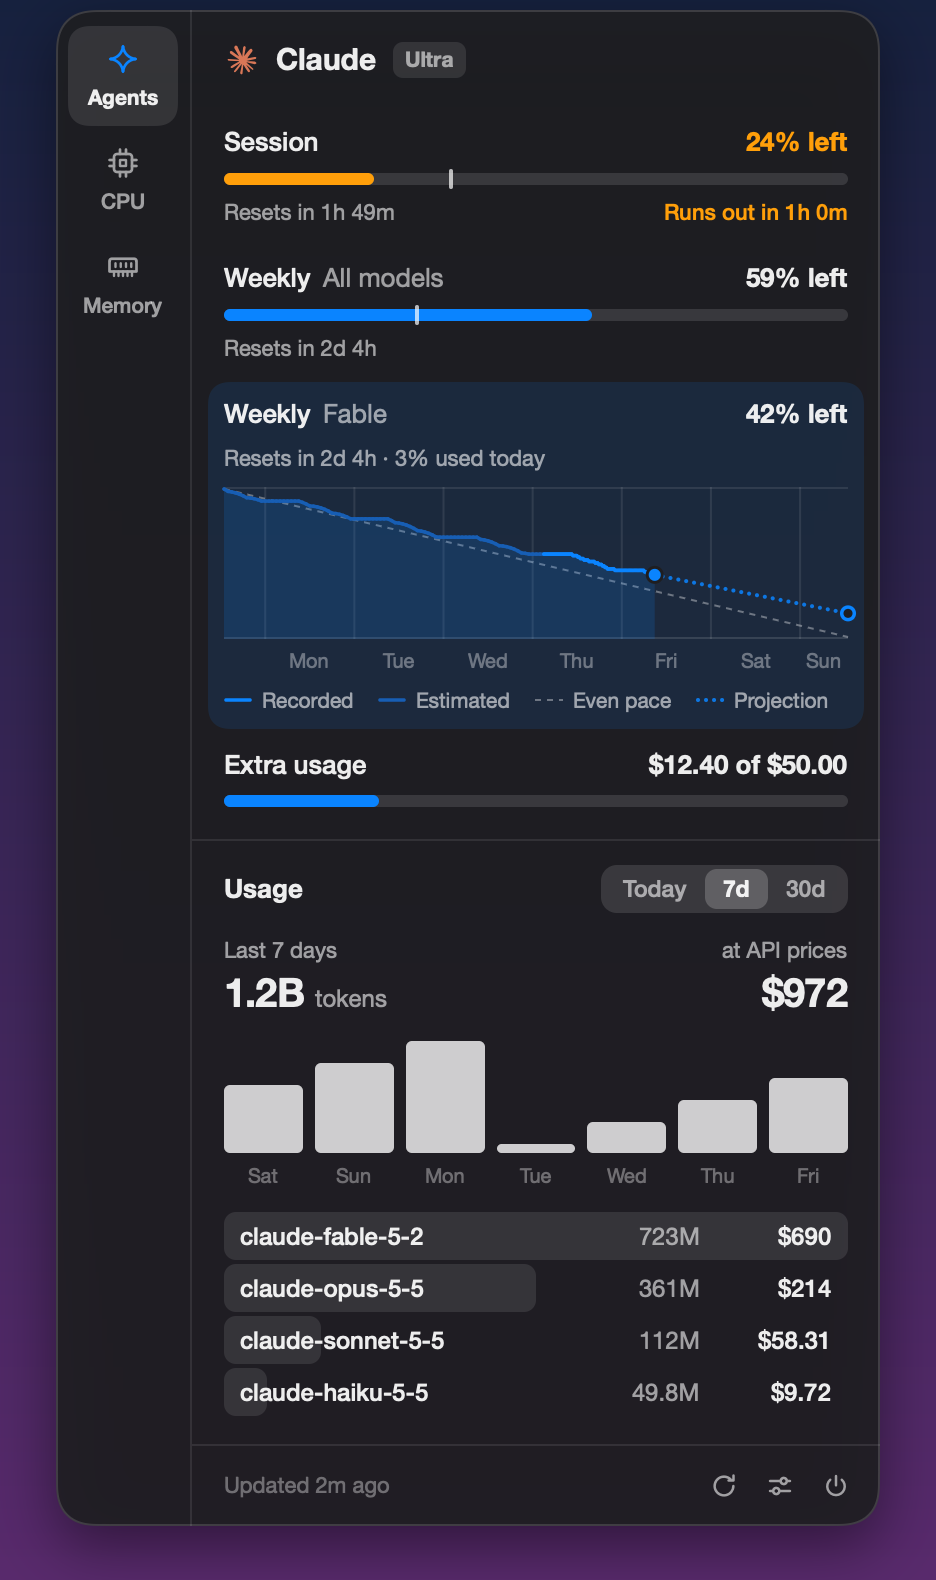
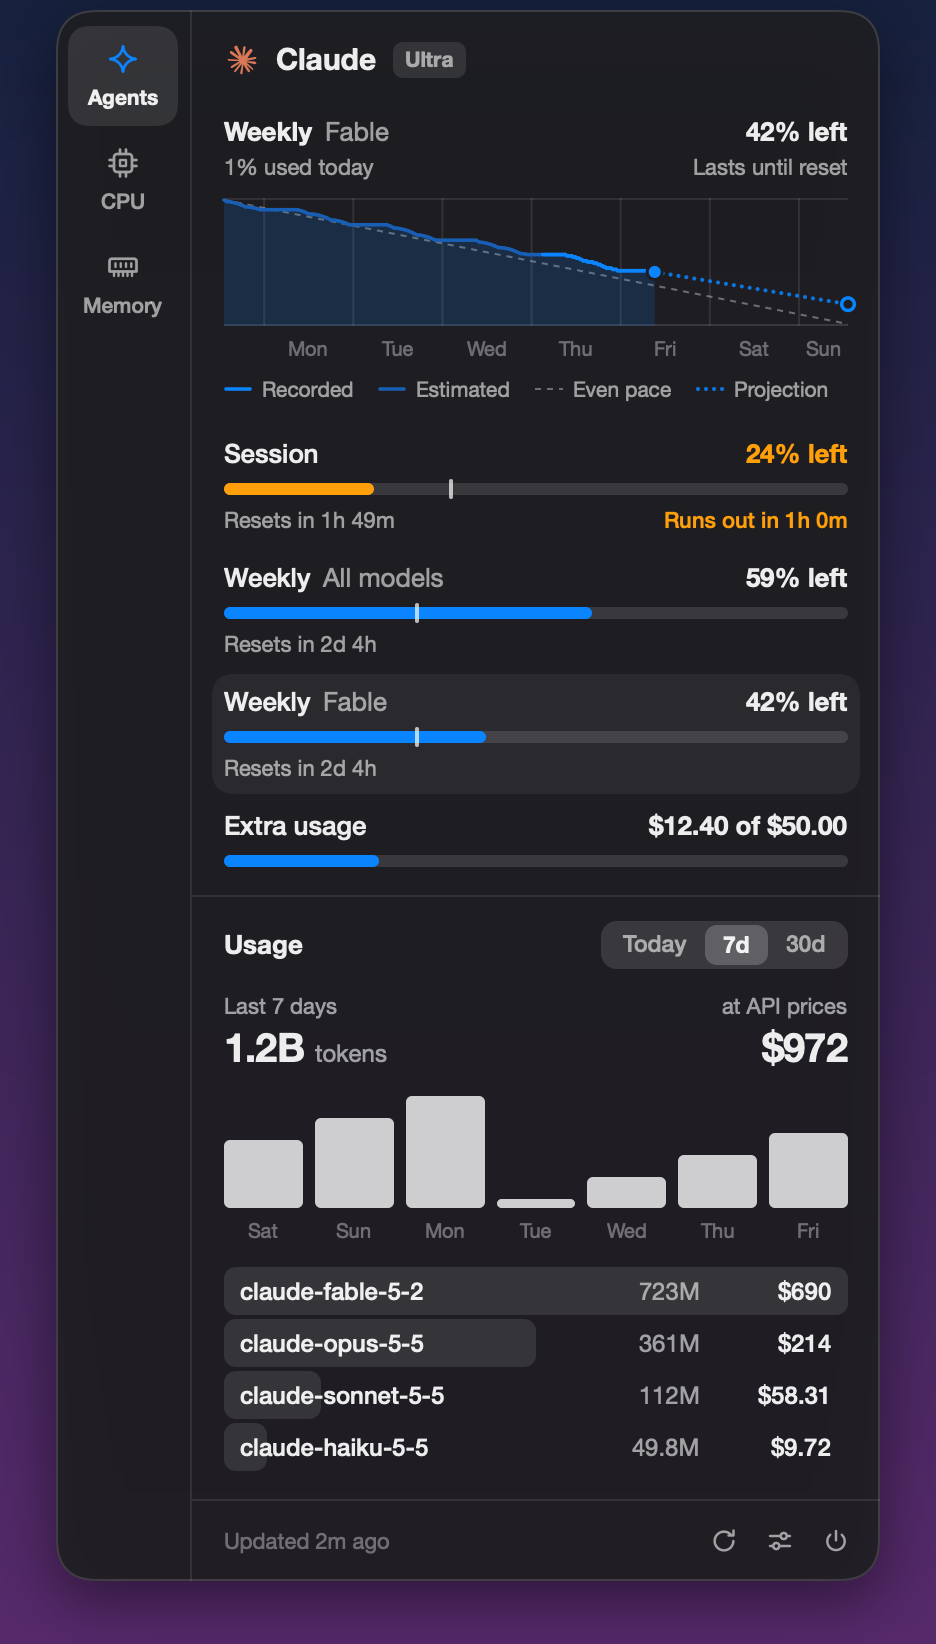
feat(agents): put the limit chart above the limits that pick it
The chart of the picked limit's window now sits at the top of the
Agents tab instead of inside that limit's row. Over it, the limit's
name and what is left, what was used today and whether the pace lasts
until the reset; under the pointer, what was left then and what was
used that day.

Every limit keeps its row and meter under the chart, and a click on
one shows it in the chart. The picked row sits on a quiet neutral card
in place of the tinted wash around the chart: the only fill in the
chart is the area under its line.

The rows are a little tighter and the chart a little shorter so the
panel stays on screen with a problem showing; the window is 880pt tall
to hold it.

diff --git a/src/burn_view.rs b/src/burn_view.rs
@@ -1,11 +1,12 @@
-//! The open limit's chart on the Agents tab: how it went from nothing used to now across its
-//! window, beside an even pace, and where the pace so far leads. It takes the place of the
-//! row's meter, and the line over it reads now (when the limit resets, what was used today) or
-//! the moment under the pointer (what was left then, what was used that day).
+//! The picked limit's chart at the top of the Agents tab: how it went from nothing used to now
+//! across its window, beside an even pace, and where the pace so far leads. The rows under it
+//! pick which limit it shows. Over the chart, the limit's name and what is left, then what was
+//! used today; under the pointer, what was left at that moment and what was used that day.
 //!
 //! The chart follows the panel's percentages: what is left falls from 100%, or what is used
 //! climbs to it. Recorded stretches are a solid line, estimated ones a fainter line, the even
-//! pace dashed and the projection dotted, each named in the legend under the chart.
+//! pace dashed and the projection dotted, each named in the legend under the chart. Only the
+//! area under the line is filled: the chart sits on the panel itself.
 
 use rune::{Color, El, LineCap, Shape, canvas, col, row, spacer, text};
 
@@ -13,9 +14,10 @@ use crate::burn::{self, Curve, Source};
 use crate::model::{self, Limit, Severity, Snapshot};
 use crate::time::{self, WEEKDAYS};
 use crate::ui::{self, Ui};
-use crate::view::{INNER_W, Look, digits, font, reset_note, runway_note};
+use crate::view::{INNER_W, Look, PAD_X, digits, font, reset_note, runway_note};
 
-const CHART_H: f32 = 76.0;
+const CHART_H: f32 = 64.0;
+const AXIS_H: f32 = 12.0;
 const LINE: f32 = 1.75;
 /// The narrowest column that still gets its name under the chart.
 const LABEL_MIN_W: f32 = 22.0;
@@ -23,45 +25,61 @@ const HOUR_LABEL_MIN_W: f32 = 32.0;
 /// Points closer together than this along the chart are drawn as one.
 const THIN: f32 = 0.6;
 
-/// What the open limit's row shows in place of its meter, or `None` while it has no window
-/// under way to chart.
-pub fn expanded(s: &Ui, l: &Look, snapshot: &Snapshot, limit: &Limit) -> Option<El> {
+/// The chart of `limit`, the one picked, with its name and reading over it. A limit with no
+/// window under way says when one starts in the chart's place, so the panel keeps its height.
+pub fn section(s: &Ui, l: &Look, snapshot: &Snapshot, limit: &Limit) -> El {
     let show_used = s.config.show_used;
     let activity = s.stats.as_ref().map_or(&[][..], |stats| stats.activity.as_slice());
-    let curve = burn::curve(limit, snapshot.fetched_at, s.history.readings(&limit.id), activity)?;
-    let moment = s.trace.map(|at| curve.start + ((curve.end - curve.start) as f64 * at as f64) as i64);
+    let curve = burn::curve(limit, snapshot.fetched_at, s.history.readings(&limit.id), activity);
+    let moment = curve.as_ref().and_then(|curve| s.trace.map(|at| curve.start + ((curve.end - curve.start) as f64 * at as f64) as i64));
+    let any_scoped = snapshot.limits.iter().any(|l| l.scoped);
+    let body = col().key("limit-history").w_full().px(PAD_X).pt(2.0).pb(12.0).gap(8.0);
+    let Some(curve) = curve else {
+        let empty = row().key("limit-chart-empty").w_full().h(CHART_H + 5.0 + AXIS_H).center().child(text(reset_note(limit, s.now)).font(font(11.5, 400.0)).color(l.faint));
+        return body.child(title(l, limit, any_scoped, None, None, show_used)).child(empty);
+    };
     let color = l.fill(limit.severity());
-    Some(
-        col()
-            .w_full()
-            .gap(7.0)
-            .child(reading(l, limit, &curve, moment, show_used, s.now))
-            .child(col().w_full().gap(5.0).child(chart(l, &curve, color, moment, show_used)).child(axis(l, &curve, moment)))
-            .child(legend(l, &curve, color)),
-    )
+    let head = col().w_full().gap(2.0).child(title(l, limit, any_scoped, Some(&curve), moment, show_used)).child(reading(l, limit, &curve, moment, s.now));
+    body.child(head)
+        .child(col().w_full().gap(5.0).child(chart(l, &curve, color, moment, show_used)).child(axis(l, &curve, moment)))
+        .child(legend(l, &curve, color))
 }
 
-/// The line over the chart. Now: when the limit resets and what was used today, and a warning
-/// when it runs out first. Under the pointer: when that is and what was used that day, and
-/// what was left then.
-fn reading(l: &Look, limit: &Limit, curve: &Curve, moment: Option<i64>, show_used: bool, now: i64) -> El {
-    let line = row().key("limit-readout").w_full().h(14.0).gap(8.0).center_y();
+/// The limit's name, and what is left of it now or at the moment under the pointer.
+fn title(l: &Look, limit: &Limit, any_scoped: bool, curve: Option<&Curve>, moment: Option<i64>, show_used: bool) -> El {
+    let (name, scope) = model::names(limit, any_scoped);
+    let mut names = row().gap(6.0).center_y().child(text(name).font(font(13.0, 600.0)).color(l.text));
+    if let Some(scope) = scope {
+        names = names.child(text(scope).font(font(13.0, 400.0)).color(l.dim));
+    }
+    let word = if show_used { "used" } else { "left" };
+    let read = curve.zip(moment).and_then(|(curve, t)| curve.at(t));
+    let (value, severity) = match read {
+        Some((used, source)) => {
+            let shown = if show_used { used } else { 100.0 - used }.clamp(0.0, 100.0);
+            (format!("{}{}% {word}", approx(source != Source::Recorded), shown.round() as i64), model::severity(100.0 - used))
+        }
+        None if moment.is_some() => (String::new(), Severity::Normal),
+        None => (format!("{} {word}", model::percent(limit, show_used)), limit.severity()),
+    };
+    row().key("limit-title").w_full().h(18.0).center_y().child(names).child(spacer()).child(text(value).font(digits(13.0, 600.0)).color(l.ink(severity)))
+}
+
+/// The line under the title. Now: what was used today, and whether the pace so far lasts
+/// until the reset. Under the pointer: when that is and what was used that day.
+fn reading(l: &Look, limit: &Limit, curve: &Curve, moment: Option<i64>, now: i64) -> El {
+    let line = row().key("limit-readout").w_full().h(14.0).gap(6.0).center_y();
     let Some(t) = moment else {
-        let mut line = line.child(text(format!("{} · {}", reset_note(limit, now), detail(curve, None))).font(digits(11.0, 400.0)).color(l.dim)).child(spacer());
+        let mut line = line.child(text(detail(curve, None)).font(digits(11.0, 400.0)).color(l.dim)).child(spacer());
         if let Some(warning) = runway_note(l, limit, now) {
             line = line.child(warning);
+        } else if curve.projection.is_some_and(|_| !curve.runs_out) {
+            line = line.child(text("Lasts until reset").font(font(11.0, 400.0)).color(l.dim));
         }
         return line;
     };
-    let value = curve.at(t);
     let when = if curve.daily() { time::weekday_clock(t) } else { time::clock(t, false) };
-    let shown = |used: f64| if show_used { used.clamp(0.0, 100.0) } else { (100.0 - used).clamp(0.0, 100.0) };
-    let number = value.map_or_else(String::new, |(used, source)| format!("{}{}% {}", approx(source != Source::Recorded), shown(used).round() as i64, if show_used { "used" } else { "left" }));
-    let severity = value.map_or(Severity::Normal, |(used, _)| model::severity(100.0 - used));
-    line.child(text(when).font(digits(11.0, 600.0)).color(l.text))
-        .child(text(detail(curve, Some(t))).font(digits(11.0, 400.0)).color(l.dim))
-        .child(spacer())
-        .child(text(number).font(digits(11.0, 600.0)).color(l.ink(severity)))
+    line.child(text(when).font(digits(11.0, 600.0)).color(l.text)).child(text(detail(curve, Some(t))).font(digits(11.0, 400.0)).color(l.dim)).child(spacer())
 }
 
 fn approx(on: bool) -> &'static str {
@@ -213,10 +231,10 @@ fn axis(l: &Look, curve: &Curve, moment: Option<i64>) -> El {
     let span = (curve.end - curve.start) as f32;
     let read = moment.and_then(|t| curve.bucket(t));
     let daily = curve.daily();
-    let mut axis = row().key("limit-axis").w_full().h(12.0);
+    let mut axis = row().key("limit-axis").w_full().h(AXIS_H);
     for (from, to) in curve.buckets() {
         let width = (to - from) as f32 / span * INNER_W;
-        let mut cell = row().w(width).min_w(0.0).h(12.0).center();
+        let mut cell = row().w(width).min_w(0.0).h(AXIS_H).center();
         let name = if daily { WEEKDAYS[time::local(from).weekday as usize].to_owned() } else { format!("{:02}:00", time::local(from).hour) };
         if width >= if daily { LABEL_MIN_W } else { HOUR_LABEL_MIN_W } {
             cell = cell.child(text(name).font(digits(10.0, 400.0)).color(if read == Some((from, to)) { l.text } else { l.faint }));

diff --git a/src/view.rs b/src/view.rs
@@ -1,7 +1,7 @@
 //! How the panel looks: a rail of tabs, and the tab beside it. The Agents tab has the provider
-//! and its plan, a row per limit (the picked one opened up to the chart of its window, in
-//! `burn_view`, the others a meter), then usage from the session logs: totals, a chart and a
-//! row per model. This Mac's tabs are in `system_view`.
+//! and its plan, the chart of the picked limit's window (in `burn_view`), a row per limit that
+//! picks it, then usage from the session logs: totals, a chart and a row per model. This Mac's
+//! tabs are in `system_view`.
 
 use rune::{Color, Cx, El, Icon, TextStyle, col, el, icon, row, rule, spacer, text};
 
@@ -18,7 +18,7 @@ pub(crate) const PAD_X: f32 = 16.0;
 pub(crate) const INNER_W: f32 = CONTENT_W - 2.0 * PAD_X;
 const METER_H: f32 = 6.0;
 /// Around a limit row's content, inside the wash that marks the charted limit.
-const ROW_PAD: f32 = 8.0;
+const ROW_PAD: f32 = 6.0;
 const CHART_H: f32 = 56.0;
 const MODEL_ROWS: usize = 5;
 
@@ -212,8 +212,12 @@ pub fn view(s: &Ui, cx: &mut Cx<Ui>) -> El {
         match &limits {
             Some(snapshot) => {
                 let charted = s.chart_limit(snapshot);
-                // Each row is a button with room around its content for the wash that marks
-                // the open one; the meters and the chart keep the full width.
+                if let Some(limit) = charted {
+                    panel = panel.child(burn_view::section(s, &l, snapshot, limit));
+                }
+                // The limits under the chart pick what it shows. Each row is a button with room
+                // around its content for the card that marks the picked one; the meters keep
+                // the full width.
                 let mut rows = col().key("limits").w_full().px(PAD_X - ROW_PAD).pb(8.0).gap(2.0);
                 for limit in &snapshot.limits {
                     let on = charted.is_some_and(|c| c.id == limit.id);
@@ -469,8 +473,8 @@ pub(crate) fn runway_note(l: &Look, limit: &Limit, now: i64) -> Option<El> {
     }
 }
 
-/// A limit: its name and what is left, then a meter and when it resets, or for the open one,
-/// the chart of its window in their place.
+/// A limit: its name and what is left, a meter and when it resets. The one in the chart sits
+/// on a quiet card; a click on another puts it in the chart.
 fn limit_row(s: &Ui, l: &Look, snapshot: &Snapshot, limit: &Limit, on: bool) -> El {
     let (now, show_used) = (s.now, s.config.show_used);
     let severity = limit.severity();
@@ -480,21 +484,6 @@ fn limit_row(s: &Ui, l: &Look, snapshot: &Snapshot, limit: &Limit, on: bool) -> 
     if let Some(scope) = scope {
         title = title.child(text(scope).font(font(13.0, 400.0)).color(l.dim));
     }
-    let id = limit.id.clone();
-    let mut body = col()
-        .key(format!("limit-{}", limit.id))
-        .w_full()
-        .padding(ROW_PAD)
-        .gap(7.0)
-        .radius(10.0)
-        .continuous_corners()
-        .fill(if on { l.fill(severity).alpha(0.12) } else { Color::TRANSPARENT })
-        .child(row().w_full().center_y().child(title).child(spacer()).child(text(value).font(digits(13.0, 600.0)).color(l.ink(severity))))
-        .role("button")
-        .label(format!("{}: {}", limit.label, model::percent(limit, show_used)));
-    if let Some(chart) = on.then(|| burn_view::expanded(s, l, snapshot, limit)).flatten() {
-        return body.child(chart);
-    }
     let share = if show_used { limit.used / 100.0 } else { limit.left() / 100.0 };
     // The tick marks an even pace: where the fill would be if use had kept step with time.
     let tick = limit.elapsed(now).filter(|_| !limit.used_up()).map(|elapsed| if show_used { elapsed } else { 1.0 - elapsed });
@@ -502,12 +491,21 @@ fn limit_row(s: &Ui, l: &Look, snapshot: &Snapshot, limit: &Limit, on: bool) -> 
     if let Some(warning) = runway_note(l, limit, now) {
         notes = notes.child(warning);
     }
-    body = body.child(meter(l, share, l.fill(severity), tick)).child(notes);
-    if on {
-        body
-    } else {
-        body.hover(l.hover).help("Click to show its history").on_press(move |s: &mut Ui| ui::select_limit(s, &id))
-    }
+    let id = limit.id.clone();
+    let body = col()
+        .key(format!("limit-{}", limit.id))
+        .role("button")
+        .label(format!("{}: {}", limit.label, model::percent(limit, show_used)))
+        .w_full()
+        .padding(ROW_PAD)
+        .gap(6.0)
+        .radius(10.0)
+        .continuous_corners()
+        .fill(if on { l.card } else { Color::TRANSPARENT })
+        .child(row().w_full().center_y().child(title).child(spacer()).child(text(value).font(digits(13.0, 600.0)).color(l.ink(severity))))
+        .child(meter(l, share, l.fill(severity), tick))
+        .child(notes);
+    if on { body } else { body.hover(l.hover).help("Click to show it in the chart").on_press(move |s: &mut Ui| ui::select_limit(s, &id)) }
 }
 
 fn extra_row(l: &Look, extra: &ExtraUsage) -> El {
@@ -516,7 +514,7 @@ fn extra_row(l: &Look, extra: &ExtraUsage) -> El {
         Some(limit) => format!("{} of {}", amount(extra.used), amount(limit)),
         None => amount(extra.used),
     };
-    let mut body = col().key("limit-extra").w_full().padding(ROW_PAD).gap(7.0).child(
+    let mut body = col().key("limit-extra").w_full().padding(ROW_PAD).gap(6.0).child(
         row()
             .w_full()
             .center_y()

diff --git a/src/ui.rs b/src/ui.rs
@@ -28,7 +28,7 @@ pub const SHADOW_ROOM: f32 = 28.0;
 pub const GAP: f32 = 5.0;
 pub const WINDOW_W: f32 = PANEL_W + 2.0 * SHADOW_ROOM;
 /// Taller than the panel ever is; the panel takes the height of its content.
-pub const WINDOW_H: f32 = 820.0;
+pub const WINDOW_H: f32 = 880.0;
 
 /// A click on the menu bar item first takes focus from the open panel, which closes it, and
 /// then arrives as a click. Within this long of that close, the click is the same gesture.
@@ -769,12 +769,15 @@ mod tests {
         assert!(!rt.state.config.show_used, "a click on a limit no longer flips the percentages");
         click(&mut rt, "limit-session");
         assert_eq!(rt.state.chart.as_deref(), Some("session"));
-        // One chart, inside the open row; the others keep their meters.
-        let [_, chart_y, _, _] = rt.presented("limit-chart").unwrap().0;
-        let [_, row_y, _, row_h] = rt.presented("limit-session").unwrap().0;
-        assert!(chart_y > row_y && chart_y < row_y + row_h, "the chart is in the session's row");
+        // One chart, over the limits that pick it; every row keeps its meter.
+        let [_, chart_y, _, chart_h] = rt.presented("limit-chart").unwrap().0;
+        let [_, rows_y, _, _] = rt.presented("limits").unwrap().0;
+        assert!(chart_y + chart_h < rows_y, "the chart is over the limits");
+        for id in ["session", "weekly", "weekly-fable"] {
+            assert!(rt.presented(&format!("limit-{id}")).is_some(), "{id} keeps its row");
+        }
         let [_, y, _, h] = rt.presented("panel").unwrap().0;
-        assert!(y + h + SHADOW_ROOM <= WINDOW_H, "the panel is {h} tall with the session open");
+        assert!(y + h + SHADOW_ROOM <= WINDOW_H, "the panel is {h} tall with the session picked");
     }
 
     #[test]

diff --git a/README.md b/README.md
@@ -30,7 +30,7 @@
 
 <table>
   <tr>
-    <td width="50%"><img src="docs/images/panel-dark.png" alt="The panel in dark mode on its Agents tab: a meter for each limit with its reset time, Fable's weekly limit opened up to a chart of how it fell across the week beside an even pace and a projection, then tokens, cost, a chart and a row per model for the last 7 days, with a rail of tabs on the left"></td>
+    <td width="50%"><img src="docs/images/panel-dark.png" alt="The panel in dark mode on its Agents tab: a chart at the top of how Fable's weekly limit fell across the week beside an even pace and a projection, a meter for each limit with its reset time under it with Fable's picked, then tokens, cost, a chart and a row per model for the last 7 days, with a rail of tabs on the left"></td>
     <td width="50%"><img src="docs/images/panel-light.png" alt="The same panel in light mode"></td>
   </tr>
 </table>
@@ -64,7 +64,7 @@ The panel has a tab for each thing it reads, in a rail down its left side: **Age
 
 <table>
   <tr>
-    <td width="50%"><img src="docs/images/low.png" alt="The Agents tab with a session at 7% left in red and a weekly limit at 26% left in orange, each saying when it runs out, and the weekly limit's chart projecting where it runs out"><br><b>Running low</b>: orange at 30% left, red at 10%, and when the pace so far uses a limit up before it resets, the row says when.</td>
+    <td width="50%"><img src="docs/images/low.png" alt="The Agents tab with a session at 7% left in red and a weekly limit at 26% left in orange, each saying when it runs out, and the weekly limit's chart at the top projecting where it runs out"><br><b>Running low</b>: orange at 30% left, red at 10%, and when the pace so far uses a limit up before it resets, the row says when.</td>
     <td width="50%"><img src="docs/images/today.png" alt="The Agents tab showing today's usage by the hour"><br><b>Usage</b> for today by the hour, and for 7 and 30 days by the day.</td>
   </tr>
 </table>
@@ -73,8 +73,8 @@ The panel has a tab for each thing it reads, in a rail down its left side: **Age
 
 **In the panel**, opened with a click:
 
-- Every limit the plan has (session, weekly, per-model weekly, extra usage) with a meter, the time to its reset, and a tick where an even pace would be.
-- One limit opened up to its history in place of its meter: how it fell from 100% day by day to what is left now, an even pace to compare against, and where the pace so far leads, with a ring where it runs out or resets. The line over the chart says when it resets and what was used today, or under the pointer, what was left then and what was used that day. A week's window reads by the day, the session's by the hour. Click another limit to open it instead; the panel starts on the weekly limit with the least left.
+- At the top, one limit's history: how it fell from 100% day by day to what is left now, an even pace to compare against, and where the pace so far leads, with a ring where it runs out or resets. Over the chart, the limit's name and what is left, what was used today and whether the pace lasts until the reset; under the pointer, what was left then and what was used that day. A week's window reads by the day, the session's by the hour.
+- Under it, every limit the plan has (session, weekly, per-model weekly, extra usage) with a meter, the time to its reset, and a tick where an even pace would be. Click a limit to show it in the chart; the one shown sits on a card, and the panel starts on the weekly limit with the least left.
 - Usage for today, 7 days and 30 days: tokens, what they would have cost at API prices, a chart and a row per model. The totals read the bar under the pointer while it is on the chart, and hold the split into input, output and cache in their tooltip. The panel's foot has Refresh, Settings and Quit; the settings (what the menu bar shows, model limits, left or used, how the CPU and memory show, Launch at Login) open in the panel. A secondary click on the menu bar item has the same as a menu.
 
 ### This Mac
